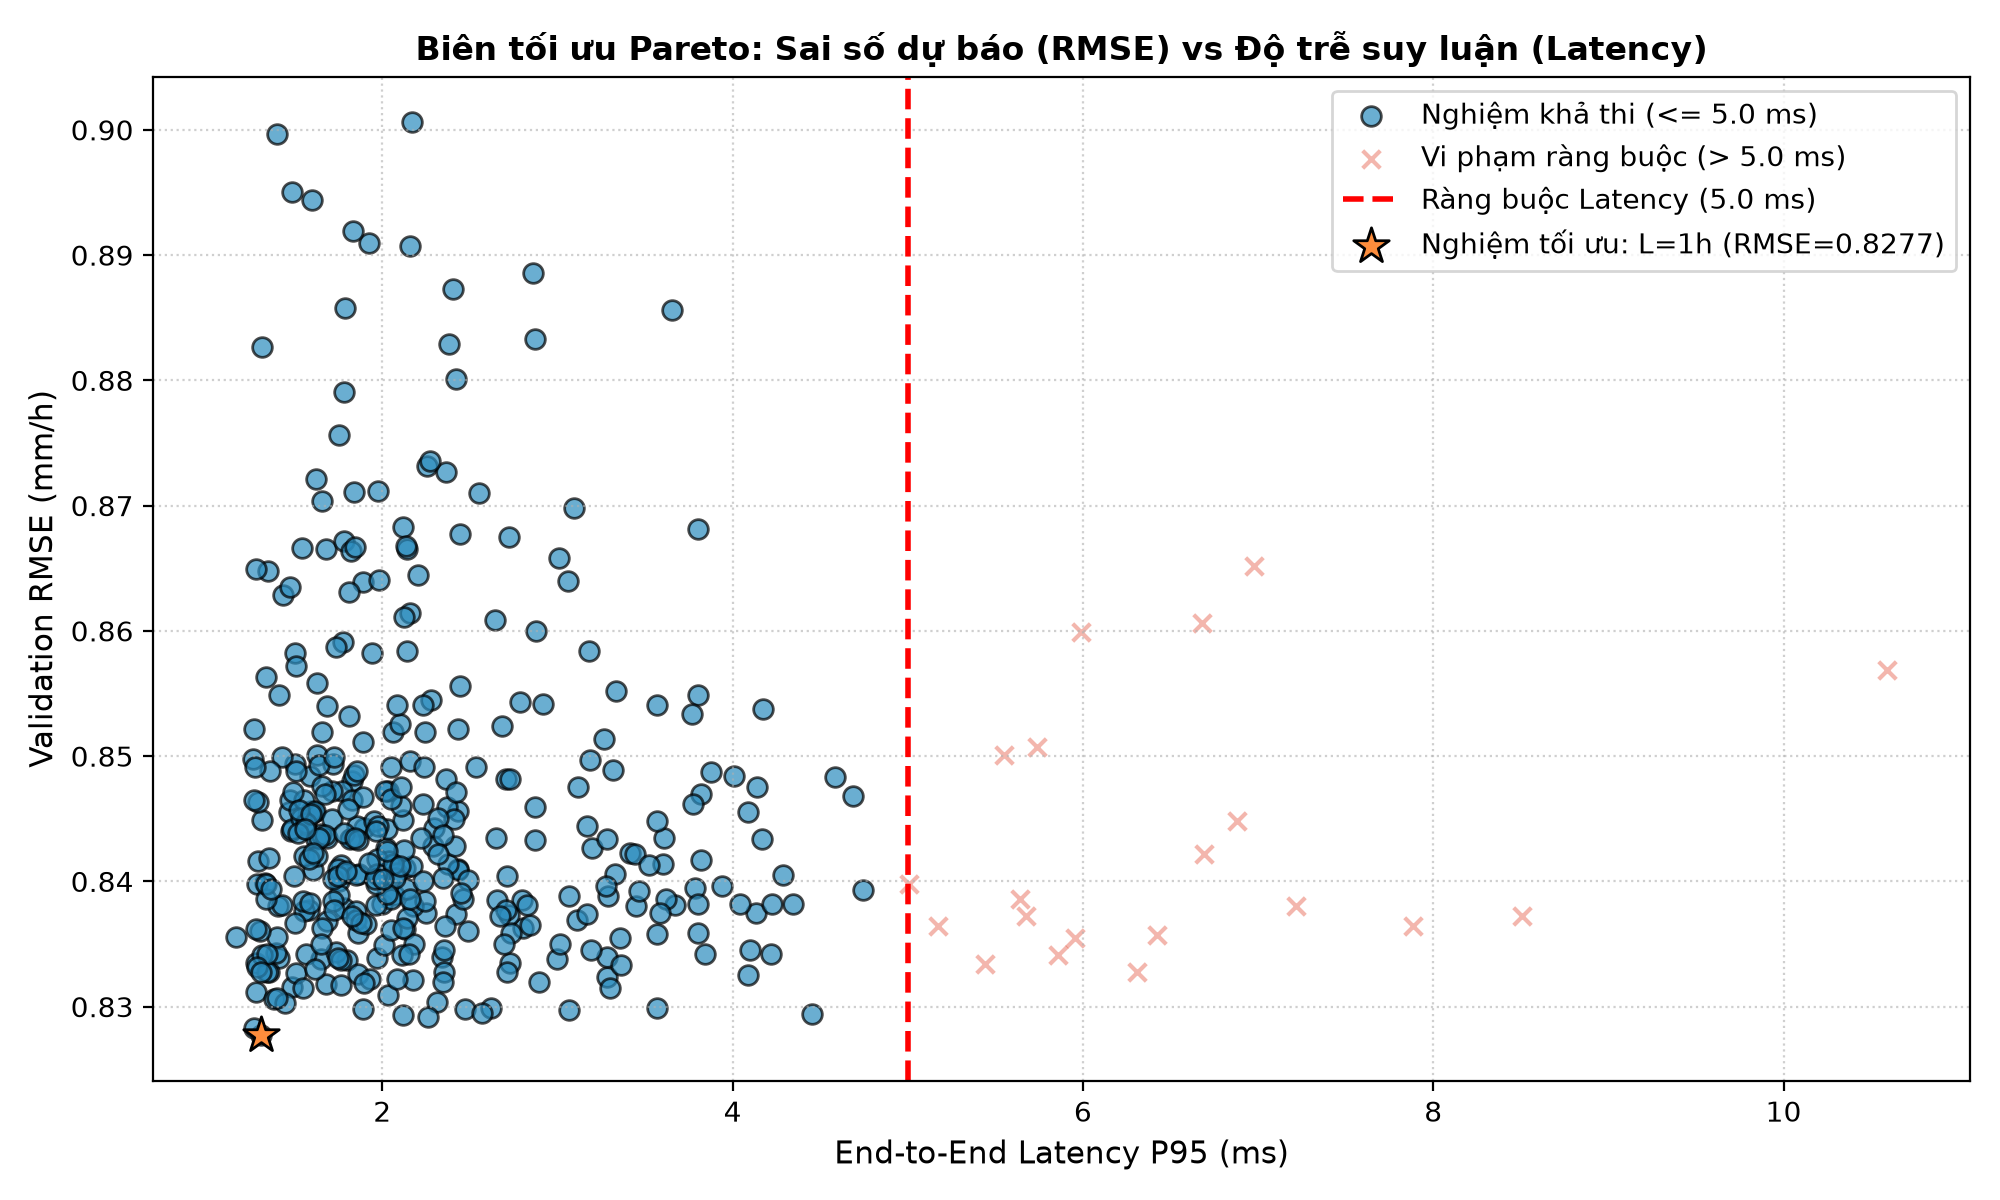
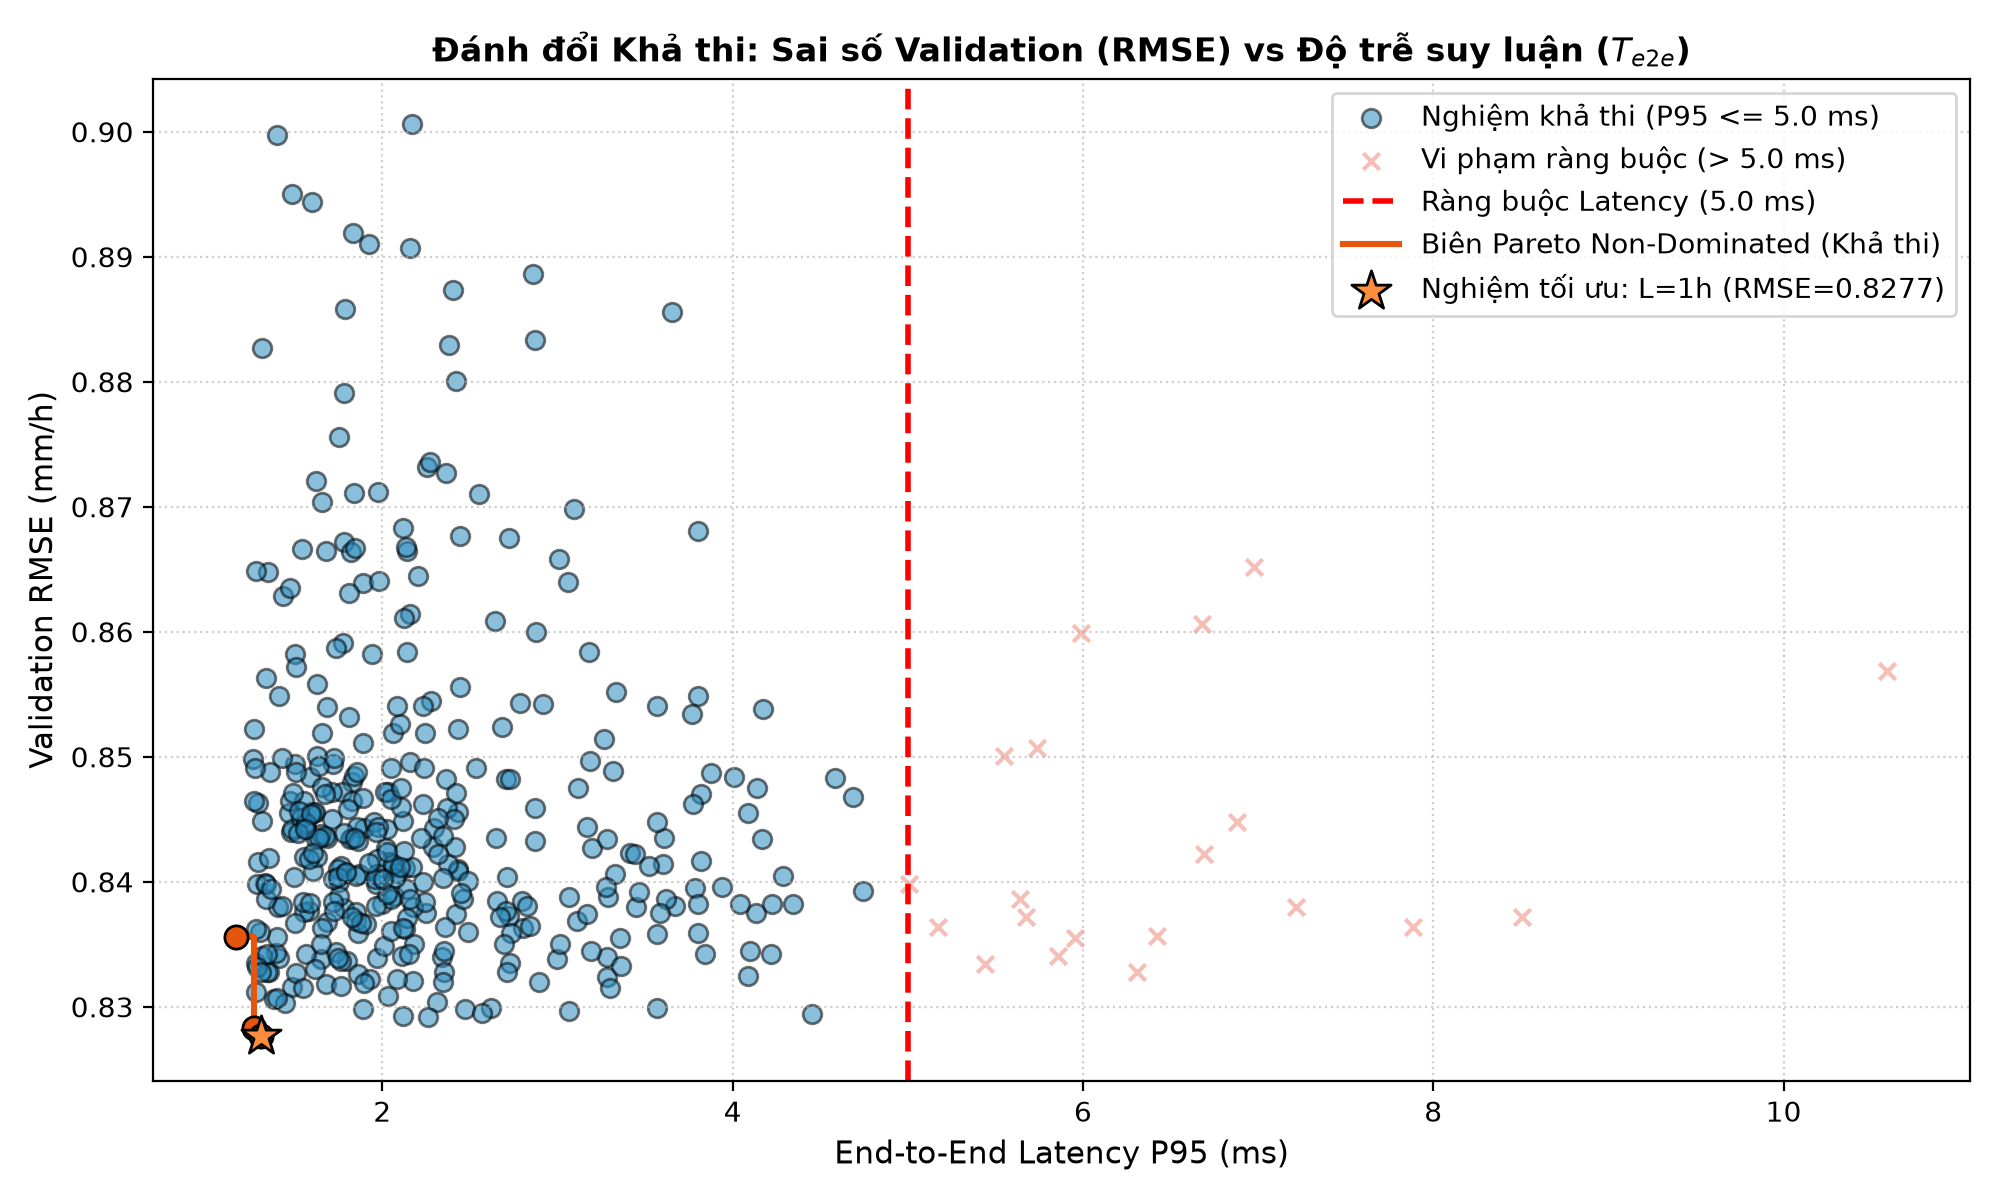
fix(methodology): toi uu latency slice tu tap val, tinh pareto non-dominated va dong bo ket qua README

diff --git a/src/evaluation/evaluate_final.py b/src/evaluation/evaluate_final.py
@@ -81,29 +81,29 @@ def plot_train_val_test_split(clean_df: pd.DataFrame):
 
 
 def plot_pareto_frontier(df_all: pd.DataFrame):
-    """Plot Validation RMSE vs Latency, showing the 5.0 ms constraint boundary and Pareto front."""
+    """Plot Validation RMSE vs Latency trade-off, highlighting the actual non-dominated Pareto frontier."""
     plt.figure(figsize=(10, 6))
 
-    feasible = df_all[df_all["is_feasible"]]
-    infeasible = df_all[~df_all["is_feasible"]]
+    feasible = df_all[df_all["is_feasible"]].copy()
+    infeasible = df_all[~df_all["is_feasible"]].copy()
 
-    # Scatter plot
+    # Scatter plot of all trials
     plt.scatter(
         feasible["p95_latency_ms"],
         feasible["val_rmse"],
         c="#2b8cbe",
-        alpha=0.7,
+        alpha=0.55,
         edgecolors="k",
-        s=50,
-        label=f"Nghiệm khả thi (<= {LATENCY_CONSTRAINT_MS} ms)",
+        s=45,
+        label=f"Nghiệm khả thi (P95 <= {LATENCY_CONSTRAINT_MS} ms)",
     )
     plt.scatter(
         infeasible["p95_latency_ms"],
         infeasible["val_rmse"],
         c="#e34a33",
-        alpha=0.4,
+        alpha=0.35,
         edgecolors="k",
-        s=40,
+        s=35,
         marker="x",
         label=f"Vi phạm ràng buộc (> {LATENCY_CONSTRAINT_MS} ms)",
     )
@@ -117,21 +117,50 @@ def plot_pareto_frontier(df_all: pd.DataFrame):
         label=f"Ràng buộc Latency ({LATENCY_CONSTRAINT_MS} ms)",
     )
 
-    # Highlight best feasible
+    # Compute actual Non-Dominated Pareto Frontier among feasible points
     if not feasible.empty:
+        feasible_sorted = feasible.sort_values("p95_latency_ms").reset_index(drop=True)
+        pareto_records = []
+        min_so_far = float("inf")
+        for _, row in feasible_sorted.iterrows():
+            if row["val_rmse"] < min_so_far:
+                min_so_far = row["val_rmse"]
+                pareto_records.append(row)
+
+        pareto_df = pd.DataFrame(pareto_records)
+        if not pareto_df.empty:
+            plt.step(
+                pareto_df["p95_latency_ms"],
+                pareto_df["val_rmse"],
+                where="post",
+                color="#e6550d",
+                linewidth=2.2,
+                linestyle="-",
+                label="Biên Pareto Non-Dominated (Khả thi)",
+                zorder=3,
+            )
+            plt.scatter(
+                pareto_df["p95_latency_ms"],
+                pareto_df["val_rmse"],
+                color="#e6550d",
+                edgecolors="black",
+                s=70,
+                zorder=4,
+            )
+
         best_row = feasible.loc[feasible["val_rmse"].idxmin()]
         plt.scatter(
             [best_row["p95_latency_ms"]],
             [best_row["val_rmse"]],
             color="#fd8d3c",
             edgecolors="black",
-            s=180,
+            s=220,
             marker="*",
             zorder=5,
             label=f"Nghiệm tối ưu: L={int(best_row['L'])}h (RMSE={best_row['val_rmse']:.4f})",
         )
 
-    plt.title("Biên tối ưu Pareto: Sai số dự báo (RMSE) vs Độ trễ suy luận (Latency)", fontsize=12, fontweight="bold")
+    plt.title("Đánh đổi Khả thi: Sai số Validation (RMSE) vs Độ trễ suy luận ($T_{e2e}$)", fontsize=12, fontweight="bold")
     plt.xlabel("End-to-End Latency P95 (ms)", fontsize=11)
     plt.ylabel("Validation RMSE (mm/h)", fontsize=11)
     plt.grid(True, linestyle=":", alpha=0.6)
@@ -141,7 +170,7 @@ def plot_pareto_frontier(df_all: pd.DataFrame):
     out_path = FIGURES_DIR / "pareto_frontier.png"
     plt.savefig(out_path, dpi=200)
     plt.close()
-    print(f"[+] Saved Pareto frontier plot to {out_path}")
+    print(f"[+] Saved Feasible RMSE-Latency Trade-Off plot to {out_path}")
 
 
 def plot_convergence_comparison(df_random: pd.DataFrame, df_optuna: pd.DataFrame):

diff --git a/src/models/optimize_optuna.py b/src/models/optimize_optuna.py
@@ -83,8 +83,9 @@ def run_optuna_study(
         val_rmse = float(root_mean_squared_error(y_v, y_val_pred))
         val_mae = float(mean_absolute_error(y_v, y_val_pred))
 
-        # 5. Measure single-sample End-to-End Latency
-        raw_window = clean_df.iloc[-L:]
+        # 5. Measure single-sample End-to-End Latency strictly on Validation slice (0% contact with Test set)
+        val_slice = clean_df[(clean_df["time"] >= "2025-01-01") & (clean_df["time"] <= "2025-06-30 23:59:59")]
+        raw_window = val_slice.iloc[-L:]
         lat_res = benchmark_end_to_end_latency(model, raw_window, L=L, n_runs=150, warmup=15)
 
         # 6. Set constraint in Optuna: violation <= 0 means feasible (P95 <= 5.0 ms)

diff --git a/src/models/optimize_random.py b/src/models/optimize_random.py
@@ -92,8 +92,9 @@ def evaluate_candidate(
     val_rmse = float(root_mean_squared_error(y_v, y_val_pred))
     val_mae = float(mean_absolute_error(y_v, y_val_pred))
 
-    # 4. End-to-End Latency Measurement
-    raw_window = clean_df.iloc[-L:]
+    # 4. End-to-End Latency Measurement strictly on Validation slice (0% contact with Test set)
+    val_slice = clean_df[(clean_df["time"] >= "2025-01-01") & (clean_df["time"] <= "2025-06-30 23:59:59")]
+    raw_window = val_slice.iloc[-L:]
     lat_res = benchmark_end_to_end_latency(model, raw_window, L=L, n_runs=150, warmup=15)
 
     return {
